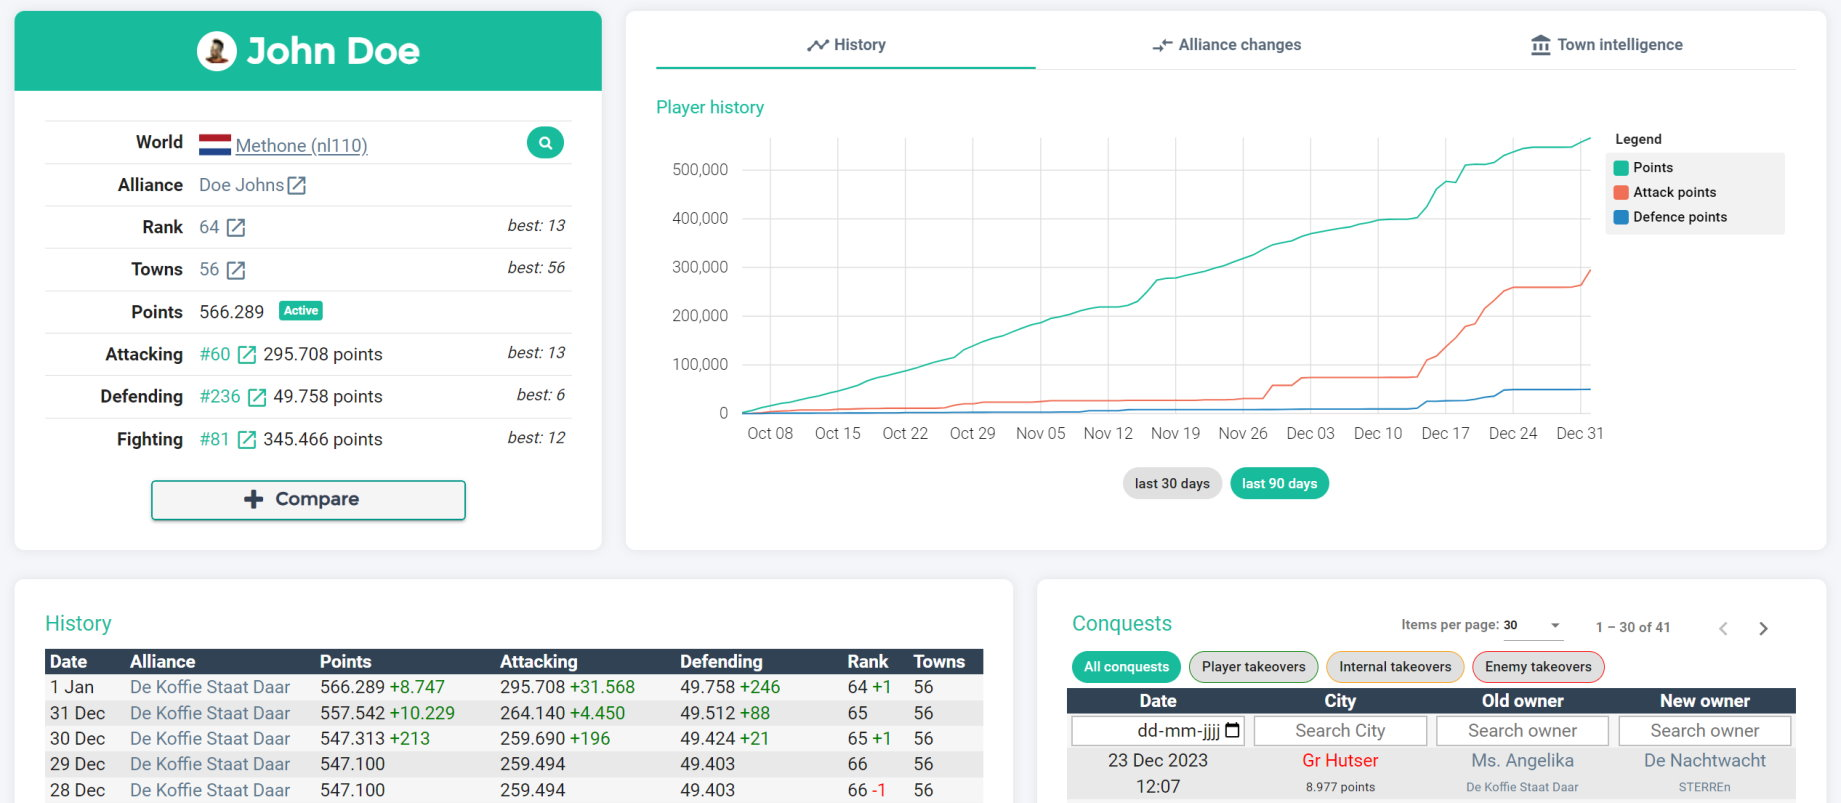
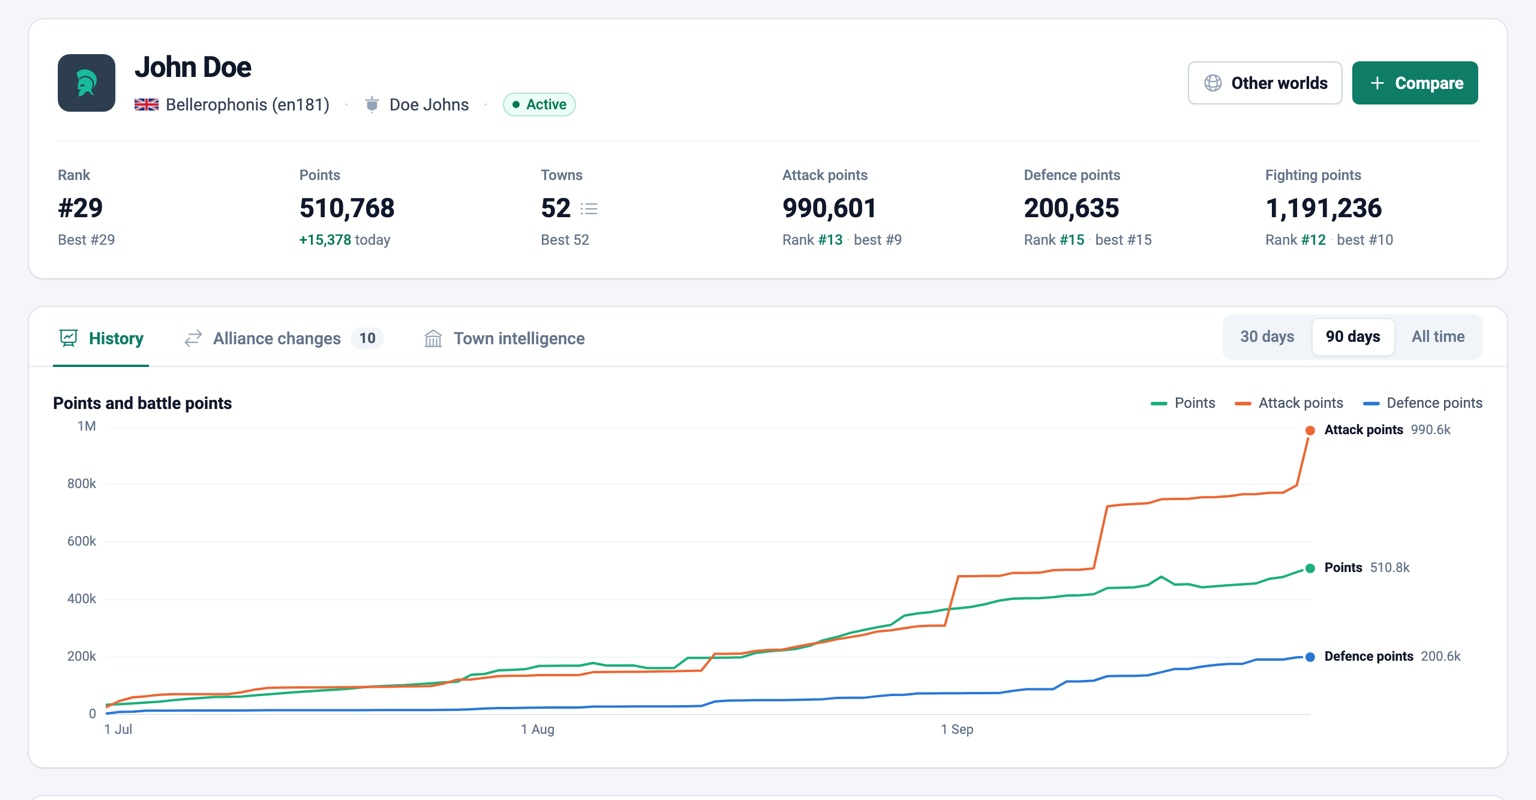
Refresh the explore screenshots on the homepage

diff --git a/src/app/homepage/homepage.component.html b/src/app/homepage/homepage.component.html
@@ -40,21 +40,21 @@
       <h2 id="h-explore" class="m-0 text-xl font-semibold text-slate-900 max-sm:text-lg">Explore GrepoData</h2>
       <div class="grid gap-6 md:grid-cols-2 lg:grid-cols-3 max-sm:gap-4">
         <a routerLink="/points" class="group flex min-w-0 flex-col overflow-hidden rounded-xl bg-white shadow-sm ring-1 ring-slate-900/[.08] no-underline hover:no-underline hover:shadow-md focus:no-underline focus-visible:outline focus-visible:outline-2 focus-visible:outline-offset-2 focus-visible:outline-brand-700">
-          <span class="block h-[200px] flex-none overflow-hidden border-0 border-b border-solid border-slate-200 bg-slate-100 max-sm:h-[150px]"><img src="../../assets/images/scoreboard.jpg?v=1" alt="" class="block size-full object-cover object-top"></span>
+          <span class="block h-[200px] flex-none overflow-hidden border-0 border-b border-solid border-slate-200 bg-slate-100 max-sm:h-[150px]"><img src="../../assets/images/scoreboard.jpg?v=2" alt="" class="block size-full object-cover object-top"></span>
           <span class="flex flex-col items-start gap-0.5 px-5 pb-4 pt-3.5">
             <span class="min-w-0 text-base font-semibold text-slate-900">Daily scoreboard</span>
             <span class="inline-flex items-center gap-1 whitespace-nowrap text-sm font-medium text-brand-700 group-hover:underline">View<svg appIcon="arrow-right" variant="mini" class="size-4 flex-none"></svg></span>
           </span>
         </a>
         <a routerLink="/points" class="group flex min-w-0 flex-col overflow-hidden rounded-xl bg-white shadow-sm ring-1 ring-slate-900/[.08] no-underline hover:no-underline hover:shadow-md focus:no-underline focus-visible:outline focus-visible:outline-2 focus-visible:outline-offset-2 focus-visible:outline-brand-700">
-          <span class="block h-[200px] flex-none overflow-hidden border-0 border-b border-solid border-slate-200 bg-slate-100 max-sm:h-[150px]"><img src="../../assets/images/player.jpg?v=1" alt="" class="block size-full object-cover object-top"></span>
+          <span class="block h-[200px] flex-none overflow-hidden border-0 border-b border-solid border-slate-200 bg-slate-100 max-sm:h-[150px]"><img src="../../assets/images/player.jpg?v=2" alt="" class="block size-full object-cover object-top"></span>
           <span class="flex flex-col items-start gap-0.5 px-5 pb-4 pt-3.5">
             <span class="min-w-0 text-base font-semibold text-slate-900">Player &amp; alliance statistics</span>
             <span class="inline-flex items-center gap-1 whitespace-nowrap text-sm font-medium text-brand-700 group-hover:underline">Explore<svg appIcon="arrow-right" variant="mini" class="size-4 flex-none"></svg></span>
           </span>
         </a>
         <a routerLink="/compare" class="group flex min-w-0 flex-col overflow-hidden rounded-xl bg-white shadow-sm ring-1 ring-slate-900/[.08] no-underline hover:no-underline hover:shadow-md focus:no-underline focus-visible:outline focus-visible:outline-2 focus-visible:outline-offset-2 focus-visible:outline-brand-700">
-          <span class="block h-[200px] flex-none overflow-hidden border-0 border-b border-solid border-slate-200 bg-slate-100 max-sm:h-[150px]"><img src="../../assets/images/compare.png?v=1" alt="" class="block size-full object-cover object-top"></span>
+          <span class="block h-[200px] flex-none overflow-hidden border-0 border-b border-solid border-slate-200 bg-slate-100 max-sm:h-[150px]"><img src="../../assets/images/compare.jpg" alt="" class="block size-full object-cover object-top"></span>
           <span class="flex flex-col items-start gap-0.5 px-5 pb-4 pt-3.5">
             <span class="min-w-0 text-base font-semibold text-slate-900">Compare</span>
             <span class="inline-flex items-center gap-1 whitespace-nowrap text-sm font-medium text-brand-700 group-hover:underline">Start comparing<svg appIcon="arrow-right" variant="mini" class="size-4 flex-none"></svg></span>
@@ -75,7 +75,7 @@
           </span>
         </a>
         <a routerLink="/indexer" class="group flex min-w-0 flex-col overflow-hidden rounded-xl bg-white shadow-sm ring-1 ring-slate-900/[.08] no-underline hover:no-underline hover:shadow-md focus:no-underline focus-visible:outline focus-visible:outline-2 focus-visible:outline-offset-2 focus-visible:outline-brand-700">
-          <span class="block h-[200px] flex-none overflow-hidden border-0 border-b border-solid border-slate-200 bg-slate-100 max-sm:h-[150px]"><img src="../../assets/images/indexer_operations.jpg" alt="" class="block size-full object-cover object-top"></span>
+          <span class="block h-[200px] flex-none overflow-hidden border-0 border-b border-solid border-slate-200 bg-slate-100 max-sm:h-[150px]"><img src="../../assets/images/operations.jpg" alt="" class="block size-full object-cover object-top"></span>
           <span class="flex flex-col items-start gap-0.5 px-5 pb-4 pt-3.5">
             <span class="min-w-0 text-base font-semibold text-slate-900">Real-time team operations</span>
             <span class="inline-flex items-center gap-1 whitespace-nowrap text-sm font-medium text-brand-700 group-hover:underline">Start sharing commands<svg appIcon="arrow-right" variant="mini" class="size-4 flex-none"></svg></span>
